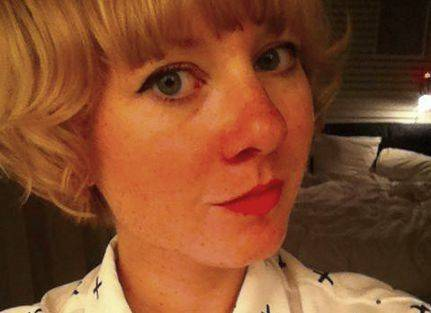
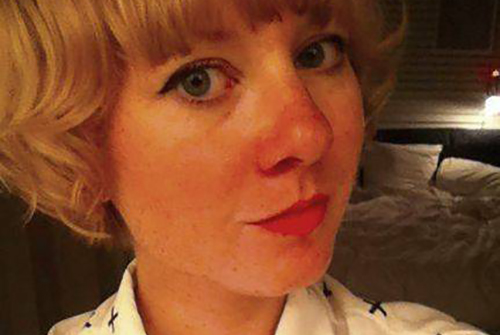
final tweaks

diff --git a/_posts/2015-04-24-amanda-hess.md b/_posts/2015-04-24-amanda-hess.md
@@ -4,6 +4,7 @@ slug: amanda.hess
 title: Amanda Hess - Users
 summary: A new column about how people use the internet at Slate
 categories: [writing, journalism, internet culture]
+credits: {name: "Amanda's best selfie"}
 ---
 
 #### Okay, so I want to ask you about your new column. First, how does having a column work? Is this your main thing now? How much time do you devote to this, and how much time do you spend writing other things outside of the column?
@@ -56,7 +57,7 @@ And I'm also just cravenly asking anyone if they know teenagers who will email m
 
 #### I always thought you were pretty plugged into that teen beat. 
 
-Well, I'm like twenty-nine now. You know, I keep getting older. And teenagers stay the same age. So, people who I might have talked to who were seventeen a few years ago aren't teenagers anymore. They can be a good bridge to younger people, but you really have to keep getting new sources if you write about teenagers.
+Well, I'm like twenty-nine now. You know, I keep getting older and teenagers stay the same age. So, people who I might have talked to who were seventeen a few years ago aren't teenagers anymore. They can be a good bridge to younger people, but you really have to keep getting new sources if you write about teenagers.
 
 #### I forgot about that. So, do you think you're going to become the type of person that spends a lot of time in these niche sites, or is it mostly, like, an academic interest to you where people will direct you to them and you'll look at them enough to write a story but you won't spend a whole lot of time crawling through these communities? Or trying every new app that comes out to see what's happening on it? 
 
@@ -85,13 +86,13 @@ Yeah, like I'll write something offensive? Yeah, uhhh, I don't know. I mean, it'
 That's a really difficult question because I think one of the things that I tend to. I tend to agree with [Nathan Jurgensen][jurgenson]. Do you know who he is? He's a sociologist who writes about the Internet, and he has promoted this idea 
 called "digital dualism" which [debunks] the idea that online and offline lives are separate things. It's difficult to believe that, as I do, and also think that there's anything new and interesting in writing about different technologies. And some people, I think, do that really well. And I don't think I'm really one of those people. So the things that I often end up writing about – that are about the culture of the internet – they don't really... They don't tend to interact much with how it's different than it used to be. Do you know what I mean? It's more like – and this is not something I've actually thought about, but I'm articulating just now – it's more like reporting on the internet like it's a place. And it doesn't tend to really specifically have a commentary or a critique about how it's different from before we had the internet or how it's different when we're not on the Internet much at all. I guess. Maybe I'm wrong. Am I wrong? 
 
-#### I don't think so. I mean, it's an interesting question. It kind of comes up in the piece about [diagnosing mental disorders][mental] and whether internet [disorders] are different or are they do they just allow us different manifestations of existing problems. One thing is it seems like things happen faster on the internet because we always have access to it. Is the fact that behaviors are accelerated novel or not? Maybe that's a significant question? 
+#### I don't think so. I mean, it's an interesting question. It kind of comes up in the piece about [diagnosing mental disorders][mental] and whether internet [disorders] are different or do they just allow us different manifestations of existing problems? One thing is it seems like things happen faster on the internet because we always have access to it. Is the fact that behaviors are accelerated novel or not? Maybe that's a significant question? 
 
 Yeah. I think you're right, and I don't know. That's a good example of a thing that I wrote about, "whether disorders are different online." Because that's like a classic Amanda Hess thing where, like, I don't say whether they are or not, and I don't know. 
 
 I don't know if they're different. 
 
-I know that one guy thinks they are and one guy thinks they're not, really. But, I have no idea if we should see them as different things. But, I do agree with you that it's a really interesting question. I'm probably not going to answer it. But hopefully I can illuminate the question in some way. That's usually my goal. 
+I know that one guy thinks they are and one guy thinks they're not, really. But I have no idea if we should see them as different things. But, I do agree with you that it's a really interesting question. I'm probably not going to answer it. But hopefully I can illuminate the question in some way. That's usually my goal. 
 
 #### I think that makes sense. I think that's kind of like the best anybody can do a lot of the time.
 
